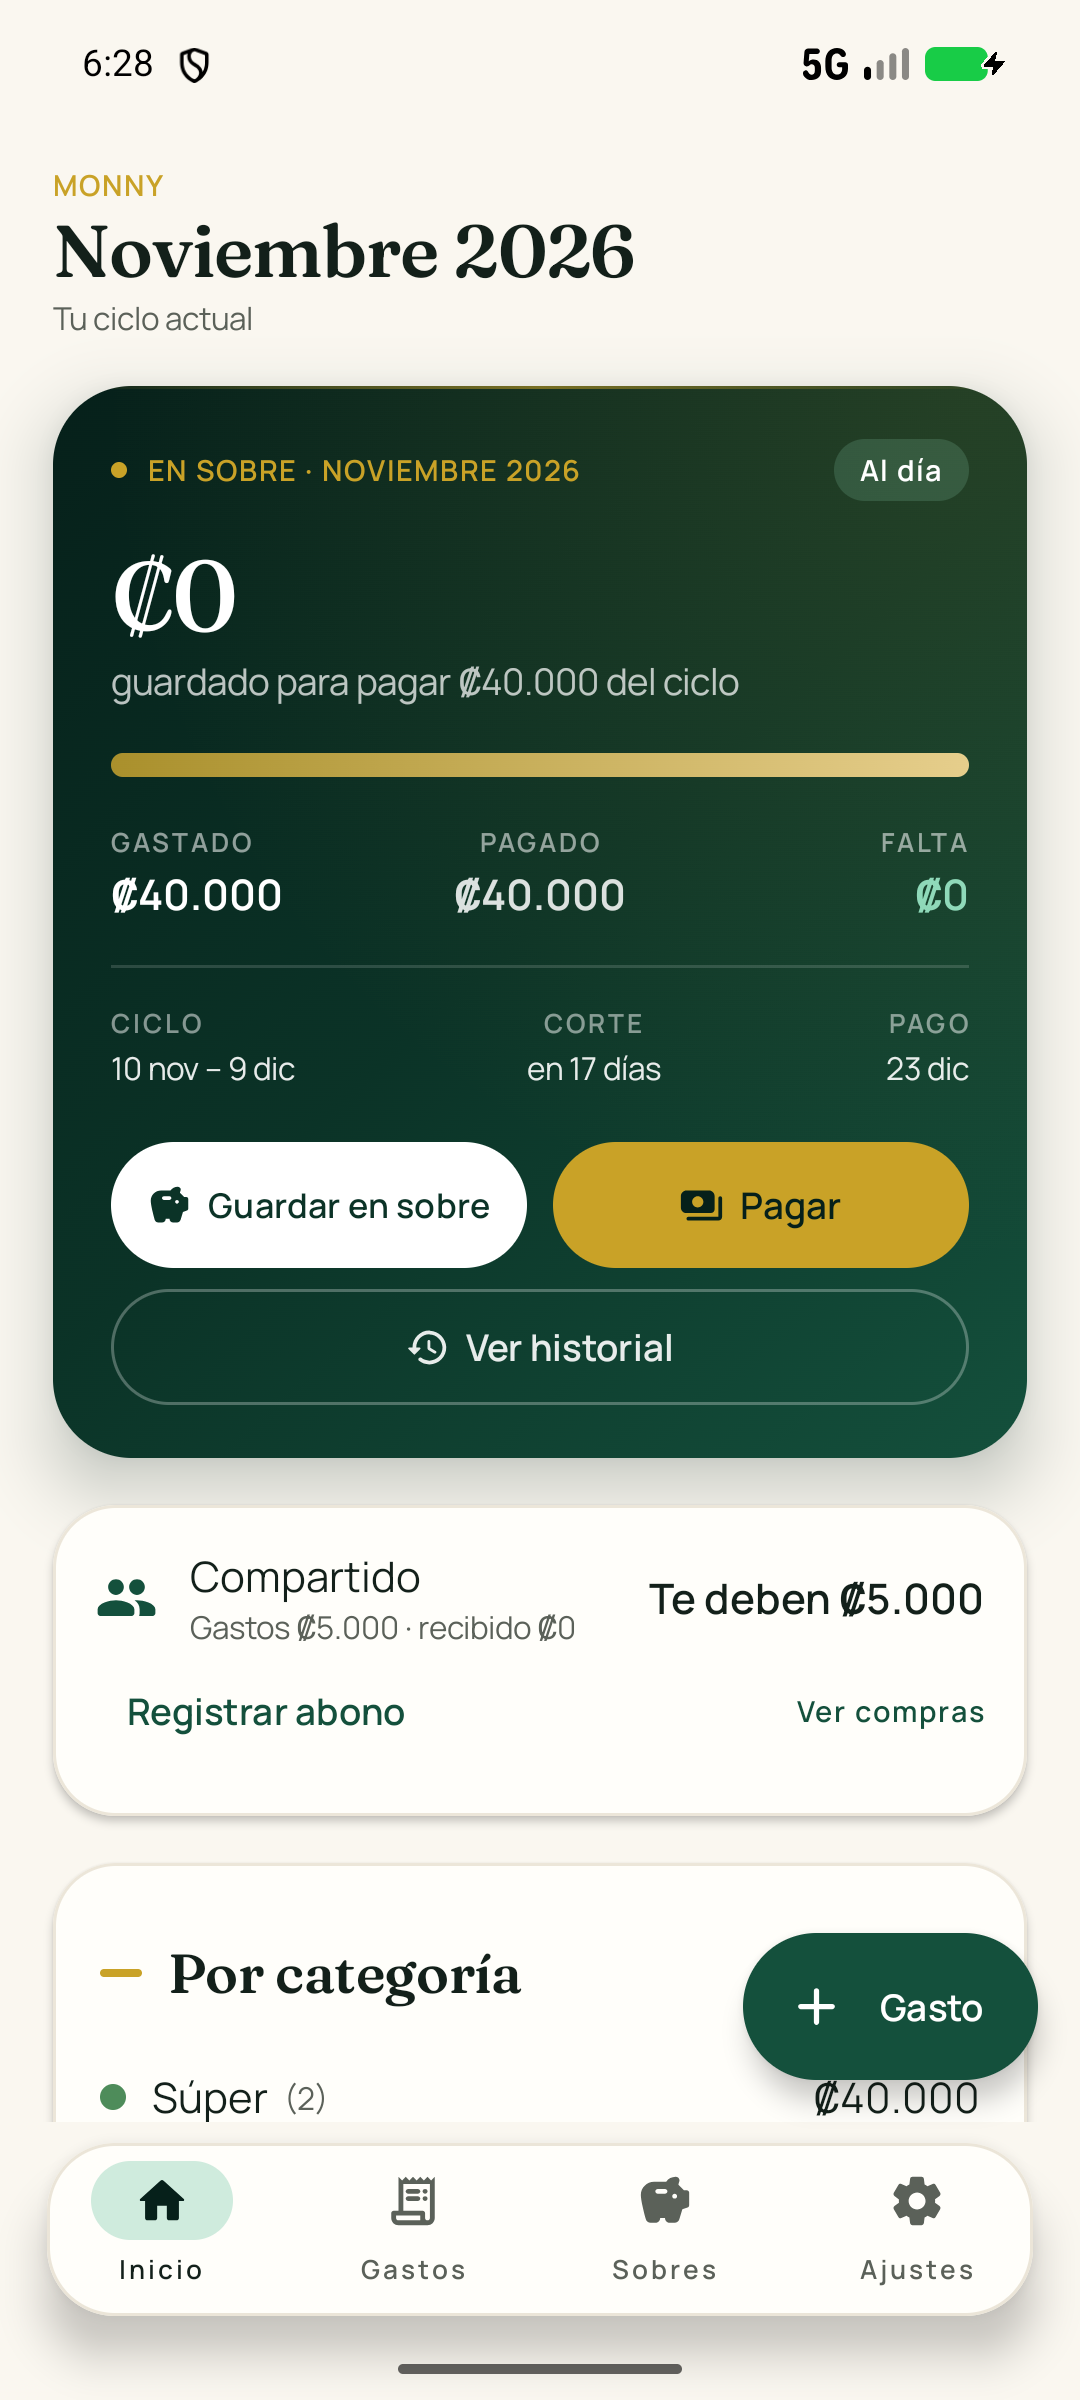
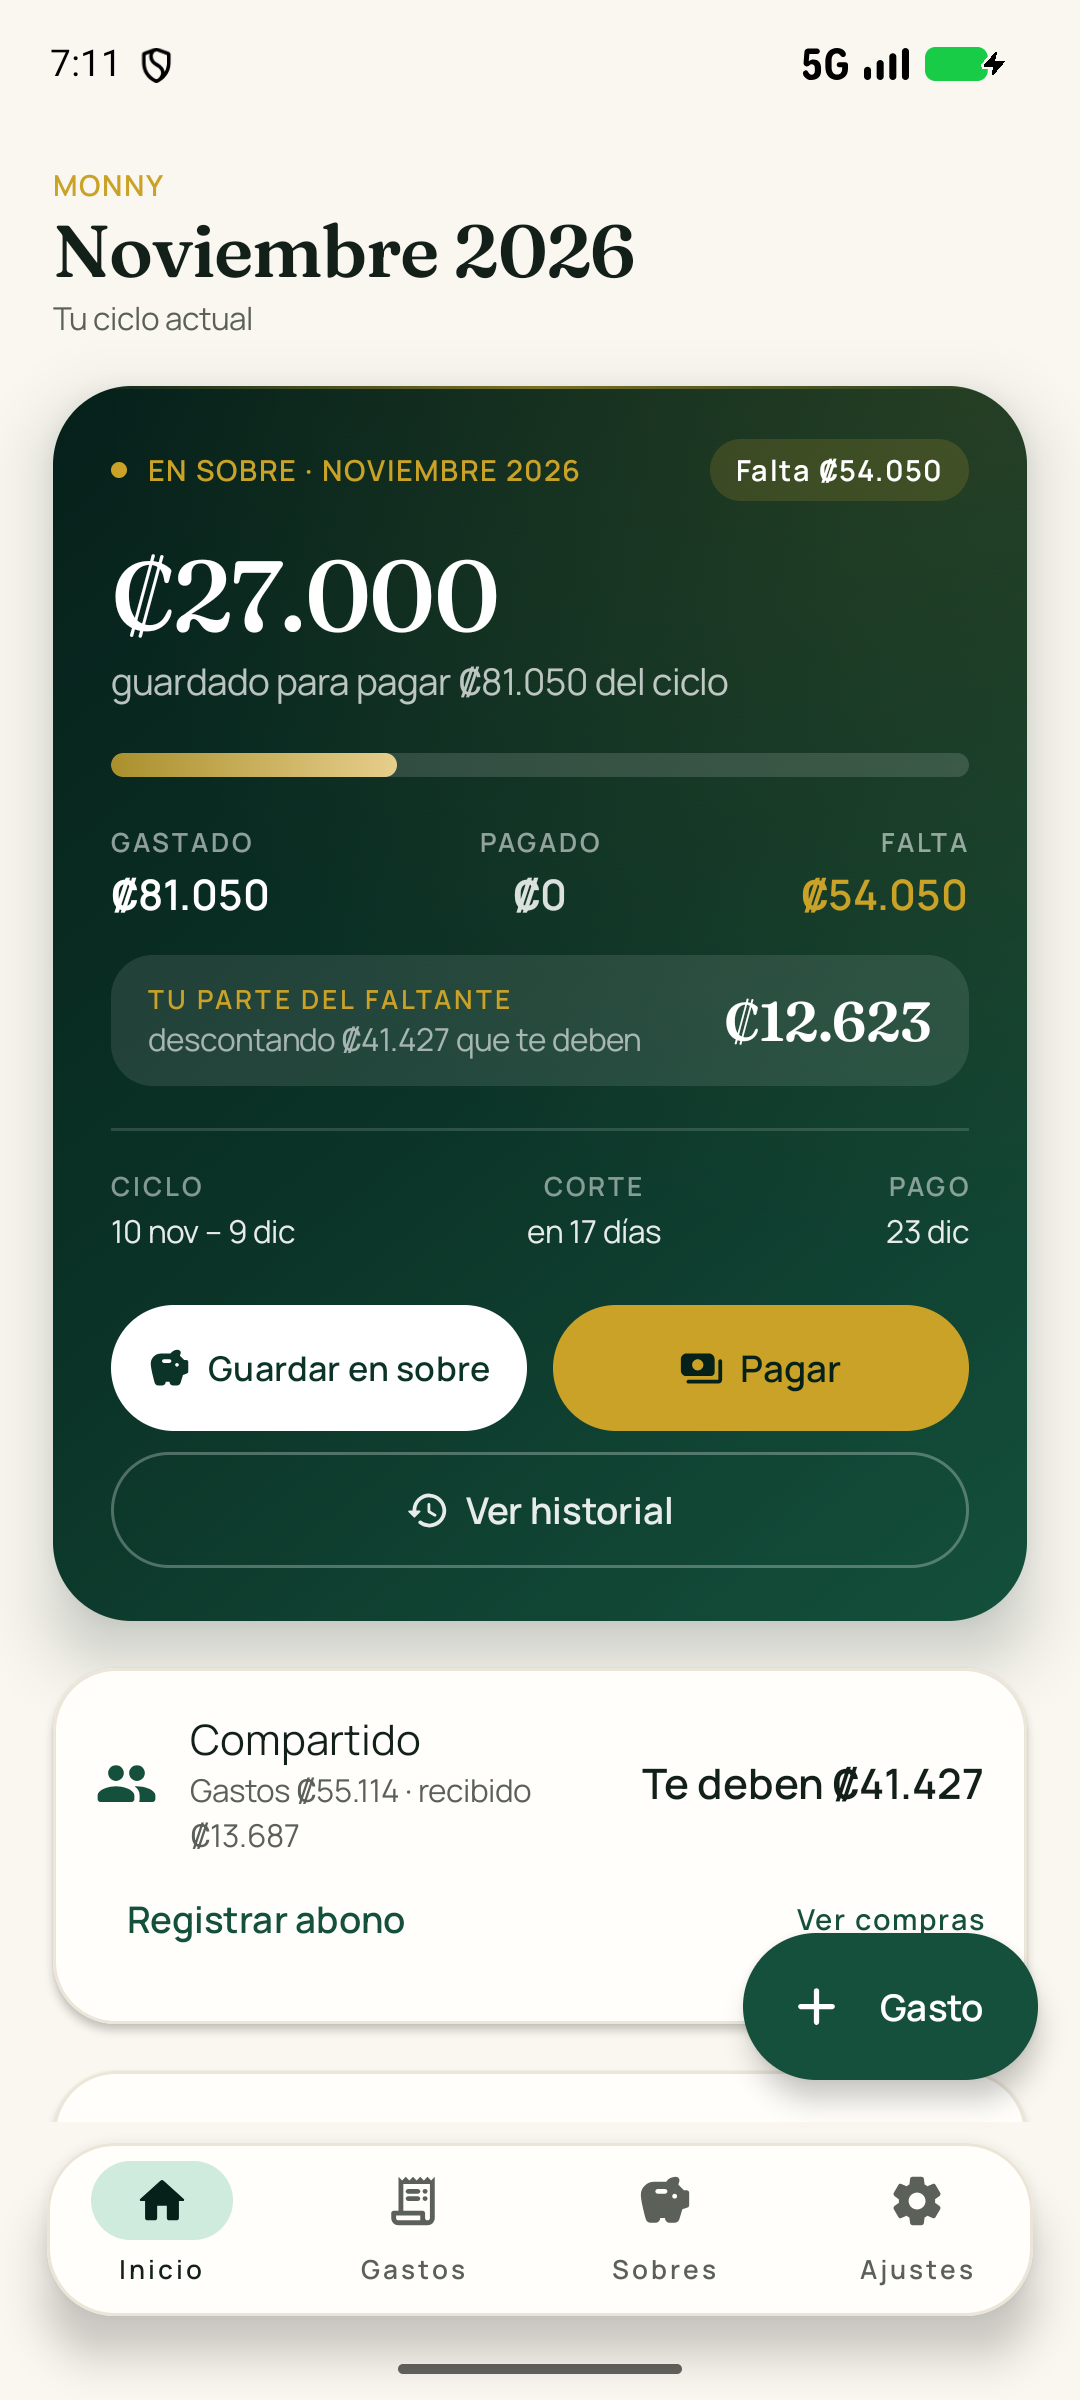
Mostrar tu parte del faltante sin restar el compartido
- Inicio muestra 'Tu parte del faltante' ya descontando lo que te deben del ciclo.
- La pantalla de pago incluye la misma aclaración junto al saldo.
- Documentación y captura de Inicio actualizadas.
- Versión 1.1.1 (versionCode 13).

diff --git a/app/src/main/java/cr/monny/ui/screens/PaymentScreen.kt b/app/src/main/java/cr/monny/ui/screens/PaymentScreen.kt
@@ -79,6 +79,7 @@ fun PaymentScreen(
     val context = LocalContext.current
     val cards by vm.cards.collectAsStateWithLifecycle()
     val detail by vm.cycleDetail.collectAsStateWithLifecycle()
+    val sharedPayments by vm.sharedPayments.collectAsStateWithLifecycle()
     val cycleKey = LocalDate.ofEpochDay(cycleKeyEpoch)
     val card = cards.firstOrNull { it.id == cardId }
 
@@ -113,6 +114,15 @@ fun PaymentScreen(
 
     val cents = Money.parse(amount) ?: 0L
     val statement = detail?.takeIf { it.card.id == cardId && it.cutKey == cycleKey }
+    val sharedDebt = statement?.let { s ->
+        (
+            s.expenses.sumOf { it.amountCents * it.sharedPercent / 100 } -
+                sharedPayments
+                    .filter { it.cycleKey == s.cutKey.toEpochDay() }
+                    .sumOf { it.amountCents }
+            ).coerceAtLeast(0)
+    } ?: 0L
+    val myPart = (statement?.remainingCents ?: 0L) - sharedDebt
     val isOpenCycle = card != null && cycleKey.isAfter(CycleMath.lastCut(card.cutDay, LocalDate.now()))
     val remainingBefore = statement?.remainingCents ?: 0L
     val afterThisPayment = statement?.let { it.remainingCents - cents } ?: 0L
@@ -205,6 +215,24 @@ fun PaymentScreen(
                             style = MaterialTheme.typography.bodySmall,
                             color = MaterialTheme.colorScheme.onSurfaceVariant,
                         )
+                        if (sharedDebt > 0) {
+                            Spacer(Modifier.height(6.dp))
+                            Text(
+                                when {
+                                    myPart > 0 ->
+                                        "Te deben ${Money.format(sharedDebt)} de este ciclo. " +
+                                            "Tu parte del faltante: ${Money.format(myPart)}."
+                                    myPart == 0L ->
+                                        "Te deben ${Money.format(sharedDebt)}. Tu parte del " +
+                                            "faltante ya está cubierta."
+                                    else ->
+                                        "Te deben ${Money.format(sharedDebt)}. Tu parte ya está " +
+                                            "cubierta y quedan ${Money.format(-myPart)} a favor."
+                                },
+                                style = MaterialTheme.typography.bodySmall,
+                                color = MaterialTheme.colorScheme.secondary,
+                            )
+                        }
                         if (isOpenCycle) {
                             Spacer(Modifier.height(10.dp))
                             Surface(

diff --git a/app/src/main/java/cr/monny/ui/screens/HomeScreen.kt b/app/src/main/java/cr/monny/ui/screens/HomeScreen.kt
@@ -109,6 +109,8 @@ fun HomeScreen(
         .filter { it.cycleKey == currentCycleKey }
         .sumOf { it.amountCents }
     val sharedDebt = (sharedOwed - sharedPaid).coerceAtLeast(0)
+    // Lo que realmente te toca poner: al faltante le restamos lo que te deben.
+    val myRemaining = home.remainingCents - sharedDebt
 
     if (!ready) {
         Box(Modifier.fillMaxSize(), contentAlignment = Alignment.Center) {
@@ -209,6 +211,8 @@ fun HomeScreen(
         item {
             HeroCard(
                 home = home,
+                sharedDebt = sharedDebt,
+                myRemaining = myRemaining,
                 onPay = {
                     home.card?.let { card ->
                         onPay(card.id, pendingPayment?.cutKey ?: home.cutKey)
@@ -431,6 +435,8 @@ fun HomeScreen(
 @Composable
 private fun HeroCard(
     home: cr.monny.ui.HomeState,
+    sharedDebt: Long,
+    myRemaining: Long,
     onPay: () -> Unit,
     onCover: () -> Unit,
     onHistory: () -> Unit,
@@ -566,6 +572,36 @@ private fun HeroCard(
                     Modifier.weight(1f),
                     Alignment.End,
                 )
+            }
+
+            if (sharedDebt > 0) {
+                Spacer(Modifier.height(12.dp))
+                Row(
+                    modifier = Modifier
+                        .fillMaxWidth()
+                        .clip(RoundedCornerShape(16.dp))
+                        .background(Color.White.copy(alpha = 0.10f))
+                        .padding(horizontal = 14.dp, vertical = 10.dp),
+                    verticalAlignment = Alignment.CenterVertically,
+                ) {
+                    Column(Modifier.weight(1f)) {
+                        Text(
+                            if (myRemaining >= 0) "TU PARTE DEL FALTANTE" else "A FAVOR TUYO",
+                            style = MaterialTheme.typography.labelSmall,
+                            color = gold,
+                        )
+                        Text(
+                            "descontando ${Money.format(sharedDebt)} que te deben",
+                            style = MaterialTheme.typography.bodySmall,
+                            color = Color.White.copy(alpha = 0.6f),
+                        )
+                    }
+                    Text(
+                        Money.format(kotlin.math.abs(myRemaining)),
+                        style = MaterialTheme.typography.titleLarge,
+                        color = if (myRemaining >= 0) Color.White else Green300,
+                    )
+                }
             }
 
             Spacer(Modifier.height(16.dp))

diff --git a/README.md b/README.md
@@ -49,6 +49,10 @@ App Android para llevar los gastos de tarjetas de crédito, el dinero apartado
   Se puede **guardar** o **retirar** (para emergencias) y después reponer.
 - **Falta / A favor**: `gastado − pagado − en sobre`. Positivo = debés,
   negativo = te sobra.
+- **Tu parte del faltante**: cuando hay gastos compartidos pendientes, Inicio y
+  la pantalla de pago muestran cuánto te toca poner **descontando lo que te
+  deben**. Así no tenés que restarlo a mano: el "Falta" sigue siendo el total de
+  la tarjeta y "Tu parte" es lo tuyo.
 - **Sobre**: bolsa de ahorro con saldo propio (tipo BCR). Se le puede aportar,
   retirar o pasar plata al ciclo de una tarjeta.
 - **Pago**: abono a la tarjeta, opcional, con fecha y foto del comprobante.
@@ -63,6 +67,7 @@ App Android para llevar los gastos de tarjetas de crédito, el dinero apartado
 - Ciclos calculados automáticamente; nunca hay que crear un "mes".
 - Gastos con monto, categoría, motivo, nota, fecha y comprobante.
 - Gastos compartidos con porcentaje por persona y cuenta que se reinicia en cada corte.
+- **Tu parte del faltante** ya con lo compartido descontado.
 - "No sumar hasta el corte" en gastos, tasa 0 y gastos fijos.
 - Presupuesto por categoría (opcional, por ciclo) con avance y aviso de "te pasaste".
 - Subtotal por categoría, total del ciclo y panorama "en sobre".

diff --git a/docs/ARQUITECTURA.md b/docs/ARQUITECTURA.md
@@ -75,6 +75,10 @@ así no se arrastran redondeos de meses anteriores. Al registrar un abono, el
 dinero entra al "en sobre" del ciclo (creando un `Cover`) o a un sobre
 (`EnvelopeTx`).
 
+Para no restarlo a mano, Inicio y el pago muestran **tu parte**:
+`tuParte = remainingCents − sharedDebt`. El "falta" sigue siendo el saldo real
+de la tarjeta; "tu parte" es lo que te corresponde después de lo que te deben.
+
 ### "No sumar hasta el corte"
 
 `Expense.excludeUntilCut` (y sus equivalentes en `InstallmentPlan` y
